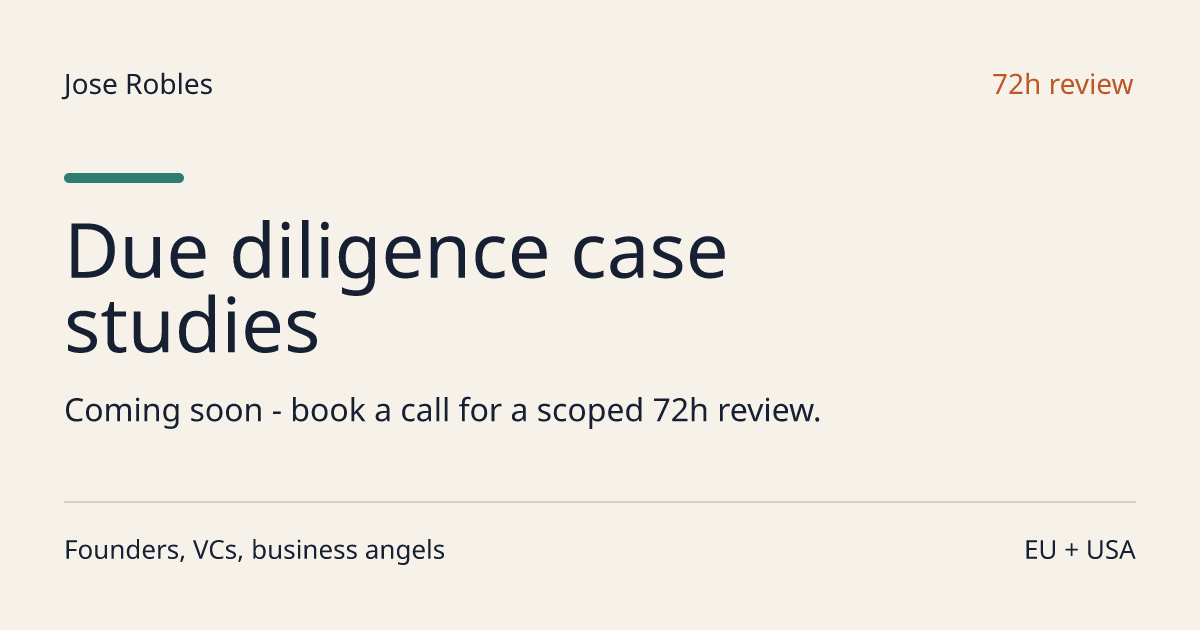
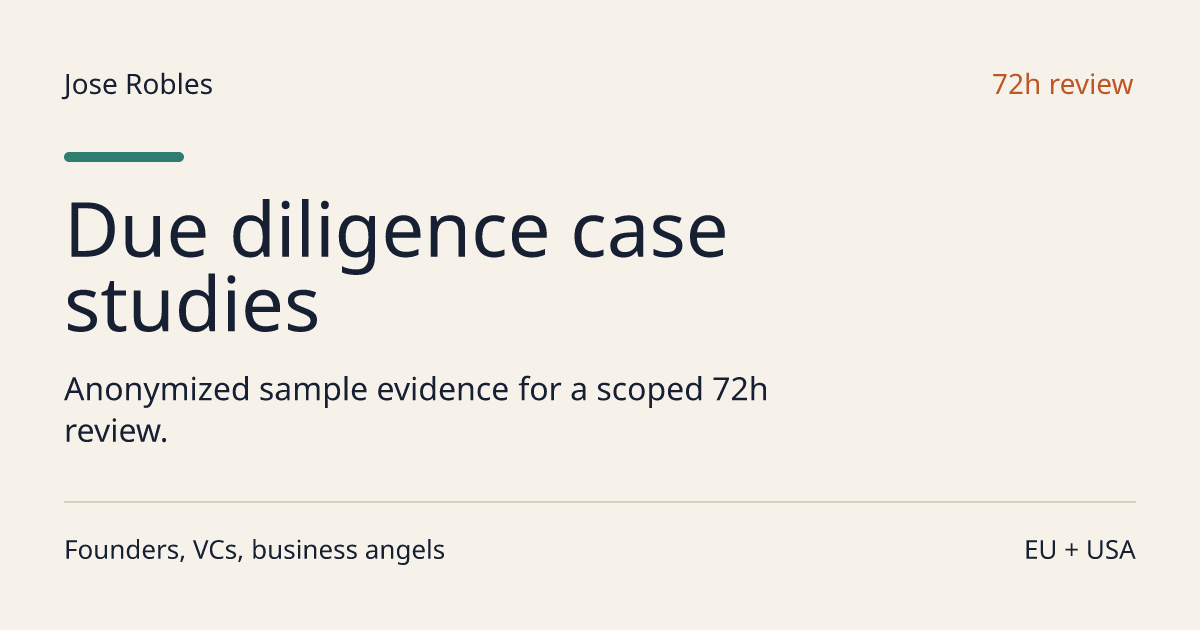
Remove placeholder case study and add content checks
* Remove placeholder case study and add content checks

* Scan all content for draft copy

Changed region(s): [[0.0308, 0.2413, 0.6167, 0.573], [0.0308, 0.6032, 0.6783, 0.7238]]

diff --git a/lib/content.ts b/lib/content.ts
@@ -37,16 +37,16 @@ export async function getCaseStudies(): Promise<CaseStudy[]> {
     .map((entry) => entry.name);
 
   if (markdownFiles.length === 0) {
-    const placeholder = await readContentFile("case-study-placeholder.md");
+    const sample = await readContentFile("case-study-sample.md");
     return [
       {
-        slug: "coming-soon",
-        title: String(placeholder.data.title ?? "Coming soon"),
+        slug: "sample-rescue-review",
+        title: String(sample.data.title ?? "Anonymized rescue review sample"),
         excerpt: String(
-          placeholder.data.excerpt ??
+          sample.data.excerpt ??
             "Book a call to discuss whether a 72h technical due diligence review fits your decision."
         ),
-        status: String(placeholder.data.status ?? "Coming soon"),
+        status: String(sample.data.status ?? "Sample"),
         href: "/book",
       },
     ];

diff --git a/content/case-study-sample.md b/content/case-study-sample.md
@@ -1,0 +1,18 @@
+---
+title: "Anonymized rescue review sample"
+status: "Sample"
+excerpt: "A fictionalized example of the evidence pack and decision support used in a 72h technical due diligence review."
+---
+
+# Anonymized rescue review sample
+
+A founder is evaluating whether to rescue a stalled B2B SaaS platform after an
+agency handoff. The review focuses on the repository, deployment path, dependency
+risk, testing gaps, and the first 30 days of engineering stabilization.
+
+This is an anonymized sample, not a customer claim. It shows the shape of the
+evidence pack without naming a company, repository, investor, or commercial
+outcome.
+
+The output is a concise risk memo, evidence register, prioritized remediation
+plan, and go / pause / proceed-with-controls recommendation.

diff --git a/README.md b/README.md
@@ -41,7 +41,7 @@ Markdown is the source of truth under `content/`.
 - `content/sample-report.md` powers `/sample`
 - `content/methodology.md` powers `/methodology`
 - `content/report-template.md` is kept as reusable source material
-- `content/case-study-placeholder.md` powers the empty case-study state
+- `content/case-study-sample.md` powers the anonymized sample case-study state
 
 Editing those files and rebuilding updates the site.
 
